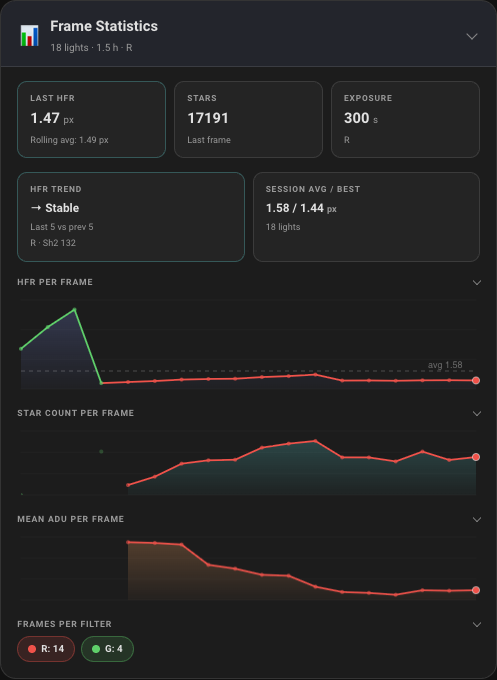
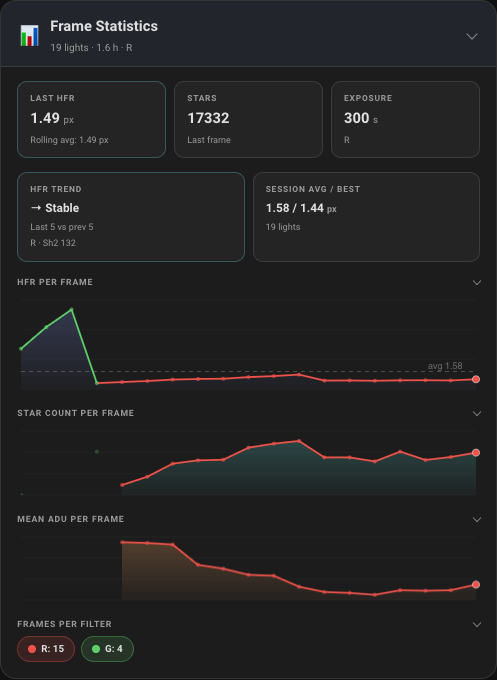
docs: recapture the samples with the mean ADU rounded

diff --git a/README.md b/README.md
@@ -213,7 +213,7 @@ type: custom:nina-observatory-card
 | **Weather** | **Autofocus** | **Frame statistics** |
 | <img src="https://raw.githubusercontent.com/dgivens/homeassistant-nina-astrophotography/main/docs/images/cards/weather.png" alt="Weather card" width="260"> | <img src="https://raw.githubusercontent.com/dgivens/homeassistant-nina-astrophotography/main/docs/images/cards/autofocus.png" alt="Autofocus card" width="260"> | <img src="https://raw.githubusercontent.com/dgivens/homeassistant-nina-astrophotography/main/docs/images/cards/frame-stats.png" alt="Frame statistics card" width="260"> |
 | **Live stack** | **Site camera** | |
-| <img src="https://raw.githubusercontent.com/dgivens/homeassistant-nina-astrophotography/main/docs/images/cards/livestack.png" alt="Live stack card: Sh2 132's R stack at 14 frames, with chips for Latest, G 4 and R 14" width="260"> | <img src="https://raw.githubusercontent.com/dgivens/homeassistant-nina-astrophotography/main/docs/images/cards/site-camera.png" alt="Site camera card: a pier camera's all-sky view over the telescope, with an Open link" width="260"> | |
+| <img src="https://raw.githubusercontent.com/dgivens/homeassistant-nina-astrophotography/main/docs/images/cards/livestack.png" alt="Live stack card: Sh2 132's R stack at 15 frames, with chips for Latest, G 4 and R 15" width="260"> | <img src="https://raw.githubusercontent.com/dgivens/homeassistant-nina-astrophotography/main/docs/images/cards/site-camera.png" alt="Site camera card: a pier camera's all-sky view over the telescope, with an Open link" width="260"> | |
 
 With a dome, the observatory card adds a Dome chip and Open or Close Dome:
 
